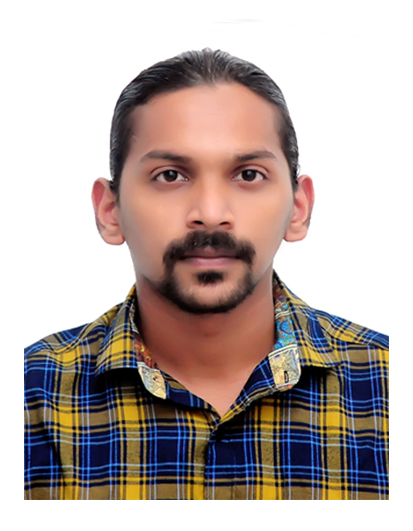
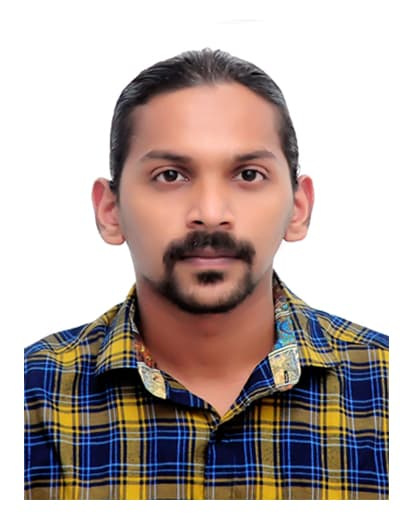
reduced image size

diff --git a/index.html b/index.html
@@ -11,7 +11,7 @@
 
   <!-- Favicons -->
   <link href="assets/img/logos/favicon.jpg" rel="icon">
-  <link href="assets/img/apple-touch-icon" rel="apple-touch-icon">
+  <link href="assets/img/apple-touch-icon.jpg" rel="apple-touch-icon">
 
   <!-- Google Fonts -->
   <link
@@ -413,12 +413,12 @@
 
           <div class="col-lg-4 col-md-6 portfolio-item filter-data-science">
             <div class="portfolio-wrap">
-              <img src="assets/img/portfolio/dsem/dsem.png" class="img-fluid" alt="">
+              <img src="assets/img/portfolio/dsem/dsem.jpg" class="img-fluid" alt="">
               <div class="portfolio-info">
                 <h4>Data Science Salary Estimator</h4>
                 <p>Created a tool that estimates data science salaries</p>
                 <div class="portfolio-links">
-                  <a href="assets/img/portfolio/dsem/dsem.png" data-gallery="portfolioGallery" class="portfolio-lightbox"
+                  <a href="assets/img/portfolio/dsem/dsem.jpg" data-gallery="portfolioGallery" class="portfolio-lightbox"
                     title="ds 1"><i class="bx bx-plus"></i></a>
                   <a href="portfolio-details-1.html" class="portfolio-details-lightbox" data-glightbox="type: external"
                     title="Portfolio Details"><i class="bx bx-link"></i></a>
@@ -429,12 +429,12 @@
 
           <div class="col-lg-4 col-md-6 portfolio-item filter-data-science">
             <div class="portfolio-wrap">
-              <img src="assets/img/portfolio/dashboard/pbi.png" class="img-fluid" alt="">
+              <img src="assets/img/portfolio/dashboard/pbi.jpg" class="img-fluid" alt="">
               <div class="portfolio-info">
                 <h4>Dashboard using Power BI</h4>
                 <p>Created a dashboard for visualization of sales data.</p>
                 <div class="portfolio-links">
-                  <a href="assets/img/portfolio/dashboard/pbi.png" data-gallery="portfolioGallery" class="portfolio-lightbox"
+                  <a href="assets/img/portfolio/dashboard/pbi.jpg" data-gallery="portfolioGallery" class="portfolio-lightbox"
                     title="ds 2"><i class="bx bx-plus"></i></a>
                   <a href="portfolio-details-2.html" class="portfolio-details-lightbox" data-glightbox="type: external"
                     title="Portfolio Details"><i class="bx bx-link"></i></a>

diff --git a/portfolio-details-2.html b/portfolio-details-2.html
@@ -52,15 +52,15 @@
               <div class="swiper-wrapper align-items-center">
 
                 <div class="swiper-slide">
-                  <img src="assets/img/portfolio/dashboard/pbi.png" alt="">
+                  <img src="assets/img/portfolio/dashboard/pbi.jpg" alt="">
                 </div>
 
                 <div class="swiper-slide">
-                  <img src="assets/img/portfolio/dashboard/pbi-1.png" alt="">
+                  <img src="assets/img/portfolio/dashboard/1.jpg" alt="">
                 </div>
 
                 <div class="swiper-slide">
-                  <img src="assets/img/portfolio/dashboard/pbi-2.png" alt="">
+                  <img src="assets/img/portfolio/dashboard/2.png" alt="">
                 </div>
 
               </div>

diff --git a/portfolio-details-1.html b/portfolio-details-1.html
@@ -52,15 +52,15 @@
               <div class="swiper-wrapper align-items-center">
 
                 <div class="swiper-slide">
-                  <img src="assets/img/portfolio/dsem/1.PNG" alt="">
+                  <img src="assets/img/portfolio/dsem/1.jpg" alt="">
                 </div>
 
                 <div class="swiper-slide">
-                  <img src="assets/img/portfolio/dsem/2.PNG" alt="">
+                  <img src="assets/img/portfolio/dsem/2.jpg" alt="">
                 </div>
 
                 <div class="swiper-slide">
-                  <img src="assets/img/portfolio/dsem/3.PNG" alt="">
+                  <img src="assets/img/portfolio/dsem/3.jpg" alt="">
                 </div>
 
               </div>

diff --git a/portfolio-details-3.html b/portfolio-details-3.html
@@ -56,11 +56,11 @@
                 </div>
 
                 <div class="swiper-slide">
-                  <img src="assets/img/portfolio/apple/1.PNG" alt="">
+                  <img src="assets/img/portfolio/apple/1.jpg" alt="">
                 </div>
 
                 <div class="swiper-slide">
-                  <img src="assets/img/portfolio/apple/2.PNG" alt="">
+                  <img src="assets/img/portfolio/apple/2.jpg" alt="">
                 </div>
 
               </div>

diff --git a/portfolio-details-5.html b/portfolio-details-5.html
@@ -56,11 +56,11 @@
                 </div>
 
                 <div class="swiper-slide">
-                  <img src="assets/img/portfolio/yt/1.PNG" alt="">
+                  <img src="assets/img/portfolio/yt/1.jpg" alt="">
                 </div>
 
                 <div class="swiper-slide">
-                  <img src="assets/img/portfolio/yt/2.PNG" alt="">
+                  <img src="assets/img/portfolio/yt/2 (3).jpg" alt="">
                 </div>
 
               </div>

diff --git a/portfolio-details-4.html b/portfolio-details-4.html
@@ -56,11 +56,11 @@
                 </div>
 
                 <div class="swiper-slide">
-                  <img src="assets/img/portfolio/mc/1.PNG" alt="">
+                  <img src="assets/img/portfolio/mc/1.jpg" alt="">
                 </div>
 
                 <div class="swiper-slide">
-                  <img src="assets/img/portfolio/mc/2.PNG" alt="">
+                  <img src="assets/img/portfolio/mc/2.jpg" alt="">
                 </div>
 
               </div>

diff --git a/README.md b/README.md
@@ -1,1 +1,6 @@
-This is my personal website created using HTML, CSS, JS, BOOTSTRAP
+# My personal Website
+
+[Click here to vist the website](https://mubarakmayyeri.github.io/Personal-website/)
+
+## Resources used :
+ * Bootstrapmade template - https://bootstrapmade.com/free-html-bootstrap-template-my-resume/
